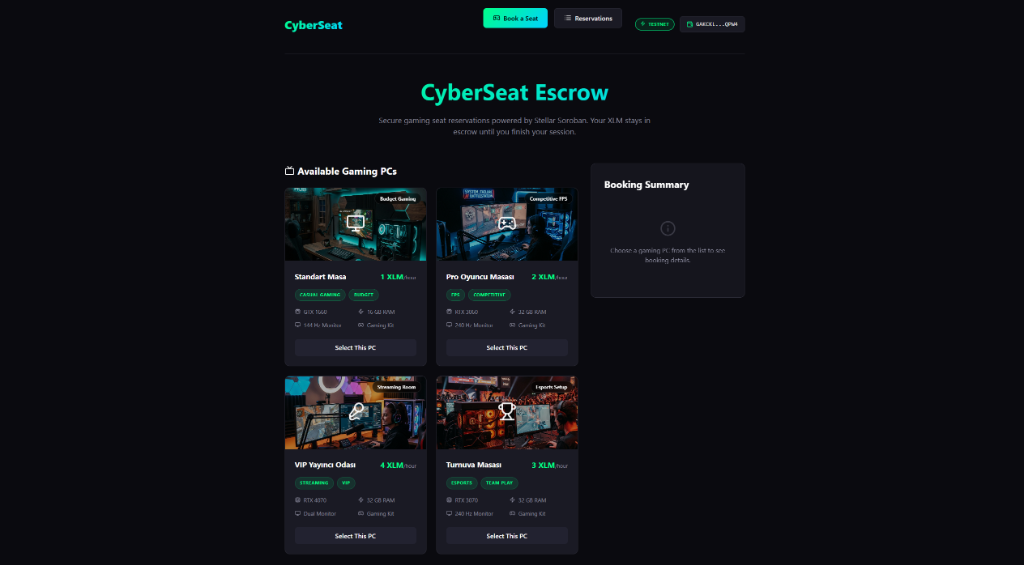
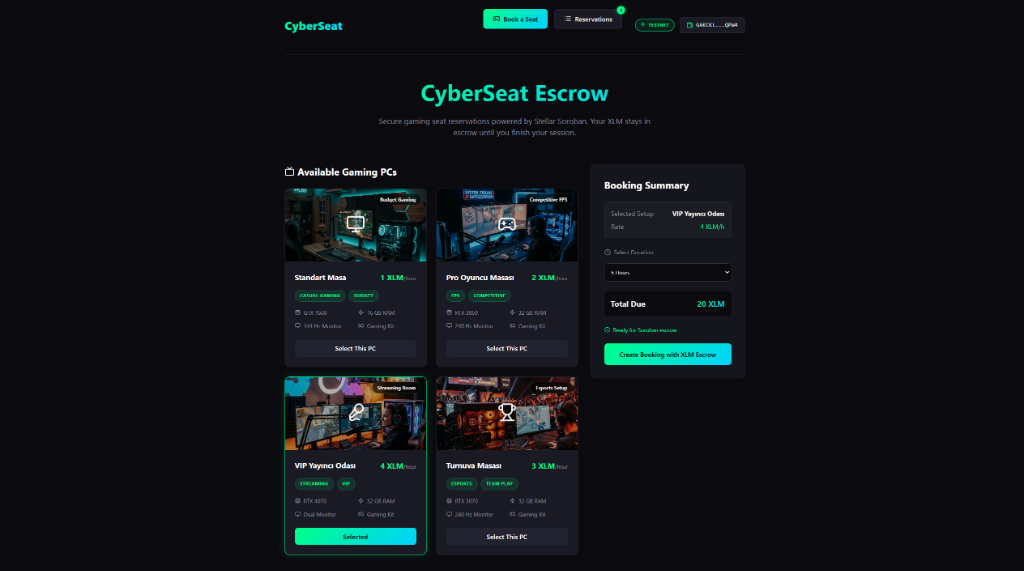
docs: simplify to 3 main screenshots and update home image

diff --git a/README.md b/README.md
@@ -36,13 +36,11 @@ This is a **hackathon MVP**. It currently runs as a local frontend demo unless d
 
 ### Screenshots
 
-<img src="docs/screenshots/home.png" width="800" alt="CyberSeat home">
-<br><br>
-<img src="docs/screenshots/booking-summary.png" width="400" alt="Booking summary">
+<img src="docs/screenshots/home.png" width="800" alt="CyberSeat Home">
 <br><br>
 <img src="docs/screenshots/reservations.png" width="800" alt="Active Reservations">
 <br><br>
-<img src="docs/screenshots/completed-reservations.png" width="800" alt="Completed Reservations">
+<img src="docs/screenshots/completed-reservations.png" width="800" alt="Completed Sessions">
 
 
 
